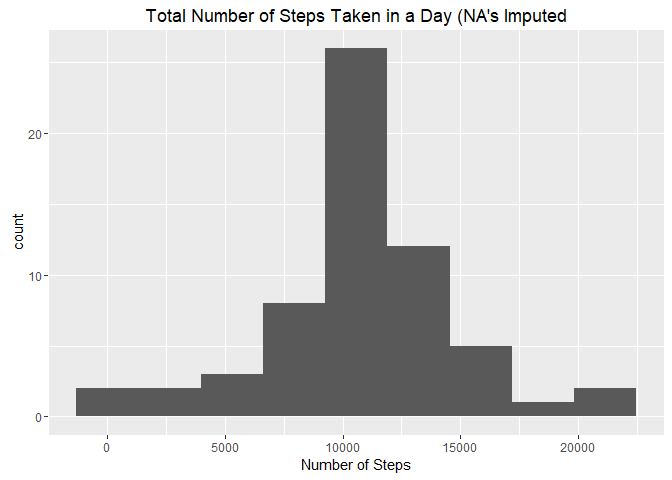
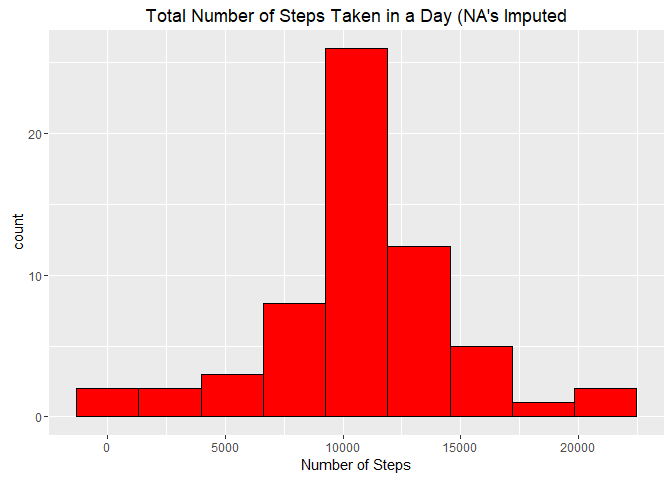
Enhance Visuals
Added some color to the histograms.

Changed region(s): [[0.0938, 0.0938, 0.9688, 0.875]]

diff --git a/PA1_template.html b/PA1_template.html
@@ -158,8 +158,9 @@ activity &lt;- read.csv(&quot;activity.csv&quot;)</code></pre>
 <pre class="r"><code>aggSteps &lt;- tapply(activity$steps,activity$date,sum,na.rm=TRUE)</code></pre>
 <p>First, we can use <code>tapply()</code> to sum up the number of steps in each day, removing any <code>NA</code>’s for now.</p>
 <pre class="r"><code>qplot(aggSteps, bins = 9, xlab = &quot;Number of Steps&quot;, 
-      main = &quot;Total Number of Steps Taken in a Day&quot;)</code></pre>
[1 lines of base64/hex data omitted]
+      main = &quot;Total Number of Steps Taken in a Day&quot;, col = I(&quot;black&quot;),
+      fill = I(&quot;red&quot;))</code></pre>
[1 lines of base64/hex data omitted]
 <p>When given only one variable, <code>qplot()</code> creates a histogram. 9 bins were chosen in order to give a clear overall picture of the data. Here we see quite a few days in the lowest bin, likely due to days with many or all <code>NA</code>’s.</p>
 <pre class="r"><code>meanSteps &lt;- mean(aggSteps)
 medianSteps &lt;-median(aggSteps)</code></pre>
@@ -203,8 +204,9 @@ newAct$steps &lt;- modAct</code></pre>
 NOTE: Since the code inside the <code>for</code> loop will be invalid for <code>i in c(1,288)</code>, those two spots are manually calculated outside of the <code>for</code> loop. Each of the values are surrounded by <code>NA</code>’s and thus are recalculated using the mean of their respective intervals.</p>
 <pre class="r"><code>newAggSteps &lt;- tapply(newAct$steps,newAct$date,sum,na.rm=TRUE)</code></pre>
 <pre class="r"><code>qplot(newAggSteps, bins = 9, xlab = &quot;Number of Steps&quot;, 
-      main = &quot;Total Number of Steps Taken in a Day (NA's Imputed&quot;)</code></pre>
[1 lines of base64/hex data omitted]
+      main = &quot;Total Number of Steps Taken in a Day (NA's Imputed&quot;, 
+      col = I(&quot;black&quot;), fill = I(&quot;red&quot;))</code></pre>
[1 lines of base64/hex data omitted]
 <p>These two steps are equivalent to those taken before, just with all of the <code>NA</code> values having been imputed. Here we see fewer values in the lowest bin since the days that were mostly or all <code>NA</code> have now been replaced by actual values. This gives the distribution a more normal shape.</p>
 <pre class="r"><code>meanNewSteps &lt;- mean(newAggSteps)
 medianNewSteps &lt;-median(newAggSteps)</code></pre>

diff --git a/PA1_template.md b/PA1_template.md
@@ -96,7 +96,8 @@ any `NA`'s for now.
 
 ```r
 qplot(aggSteps, bins = 9, xlab = "Number of Steps", 
-      main = "Total Number of Steps Taken in a Day")
+      main = "Total Number of Steps Taken in a Day", col = I("black"),
+      fill = I("red"))
 ```
 
 ![](PA1_template_files/figure-html/stepshistogram-1.png)<!-- -->
@@ -201,7 +202,8 @@ newAggSteps <- tapply(newAct$steps,newAct$date,sum,na.rm=TRUE)
 
 ```r
 qplot(newAggSteps, bins = 9, xlab = "Number of Steps", 
-      main = "Total Number of Steps Taken in a Day (NA's Imputed")
+      main = "Total Number of Steps Taken in a Day (NA's Imputed", 
+      col = I("black"), fill = I("red"))
 ```
 
 ![](PA1_template_files/figure-html/allstepshistogram-1.png)<!-- -->
